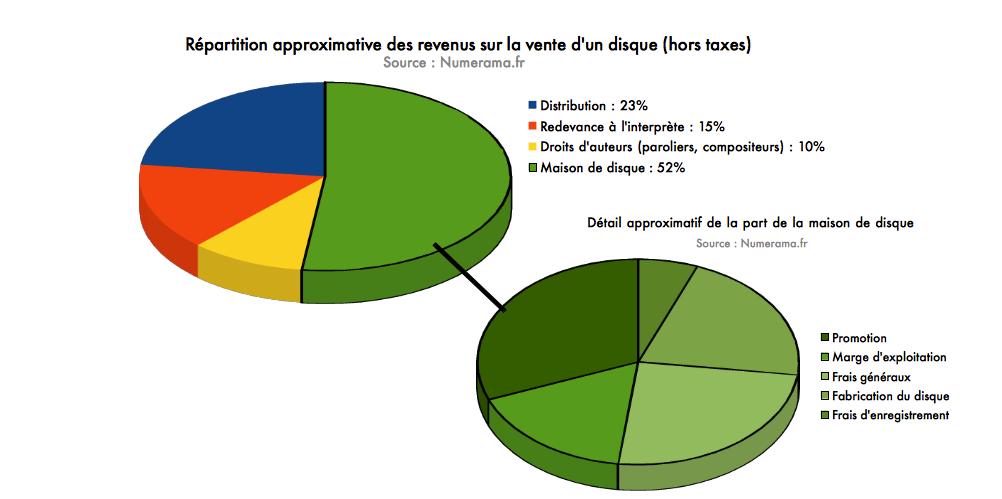
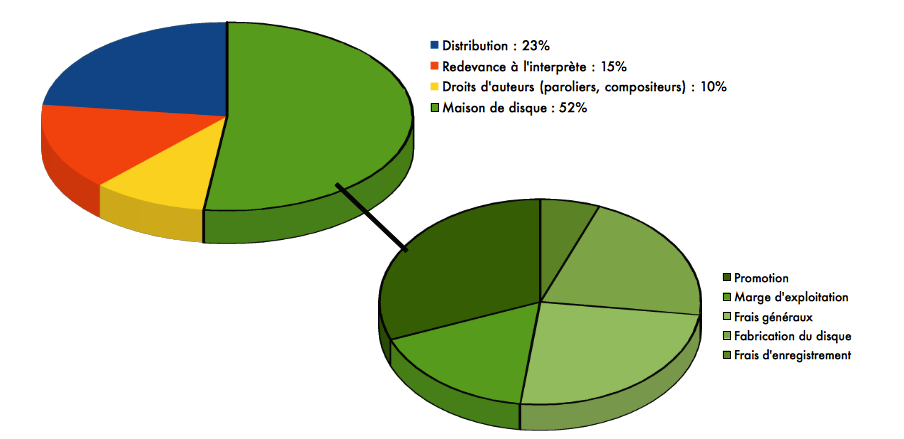
Remplacer les titres "in-picture" par des légendes

diff --git a/pph.tex b/pph.tex
@@ -39,7 +39,6 @@
 	\chapter{TODO}
 	\begin{enumerate}
 		\item Source de chaque figure
-		\item Remplacer les titres ``in picture'' par des \texttt{caption}
 		\item Remplacer les footnotes (``Source : '') par des références de la bibliographie.
 		\item Ajouter les auteurs de toutes les sources
 		\item Insérer des images d'agrément
@@ -85,7 +84,7 @@
 
 	\begin{figure}[ht]
 		\includegraphics[width=13cm]{images/repartition-des-revenus.png}
-		\caption{Répartition moyenne des revenus sur la vente d'un disque (hors taxes)}
+		\caption{Répartition moyenne des revenus sur la vente d'un disque (hors taxes). Source : Numérama}
 	\end{figure}
 
 	Il est important de remarquer qu'avec ce schéma d'organisation, les auteurs se partagent en général 10 à 15\% seulement du prix final payé par le consommateur\footnote{Hors taxes. Source : Epok, un hebdomadaire distribué par la FNAC.}. Ils peuvent cependant, dans une certaine mesure, s'appuyer sur d'autres sources de revenus : les diffusions à la radio ou à la télévision, les concerts, les locations, etc.
@@ -129,7 +128,7 @@
 	\begin{figure}[ht]
 		\begin{center}
 			\includegraphics[width=10cm]{images/ventes-albums.png}
-			\caption{Le déclin des ventes d'album dans le monde}
+			\caption{Le déclin des ventes d'album dans le monde. Source : IFPI}
 		\end{center}
 	\end{figure}
 
@@ -220,7 +219,7 @@
 	\begin{figure}[ht]
 		\begin{center}
 			\includegraphics[width=14cm]{images/spotify-croissance.png}
-			\caption{Croissance du service Spotify (source CNET)}
+			\caption{Croissance du service Spotify. Source : CNET}
 		\end{center}
 	\end{figure}
 
